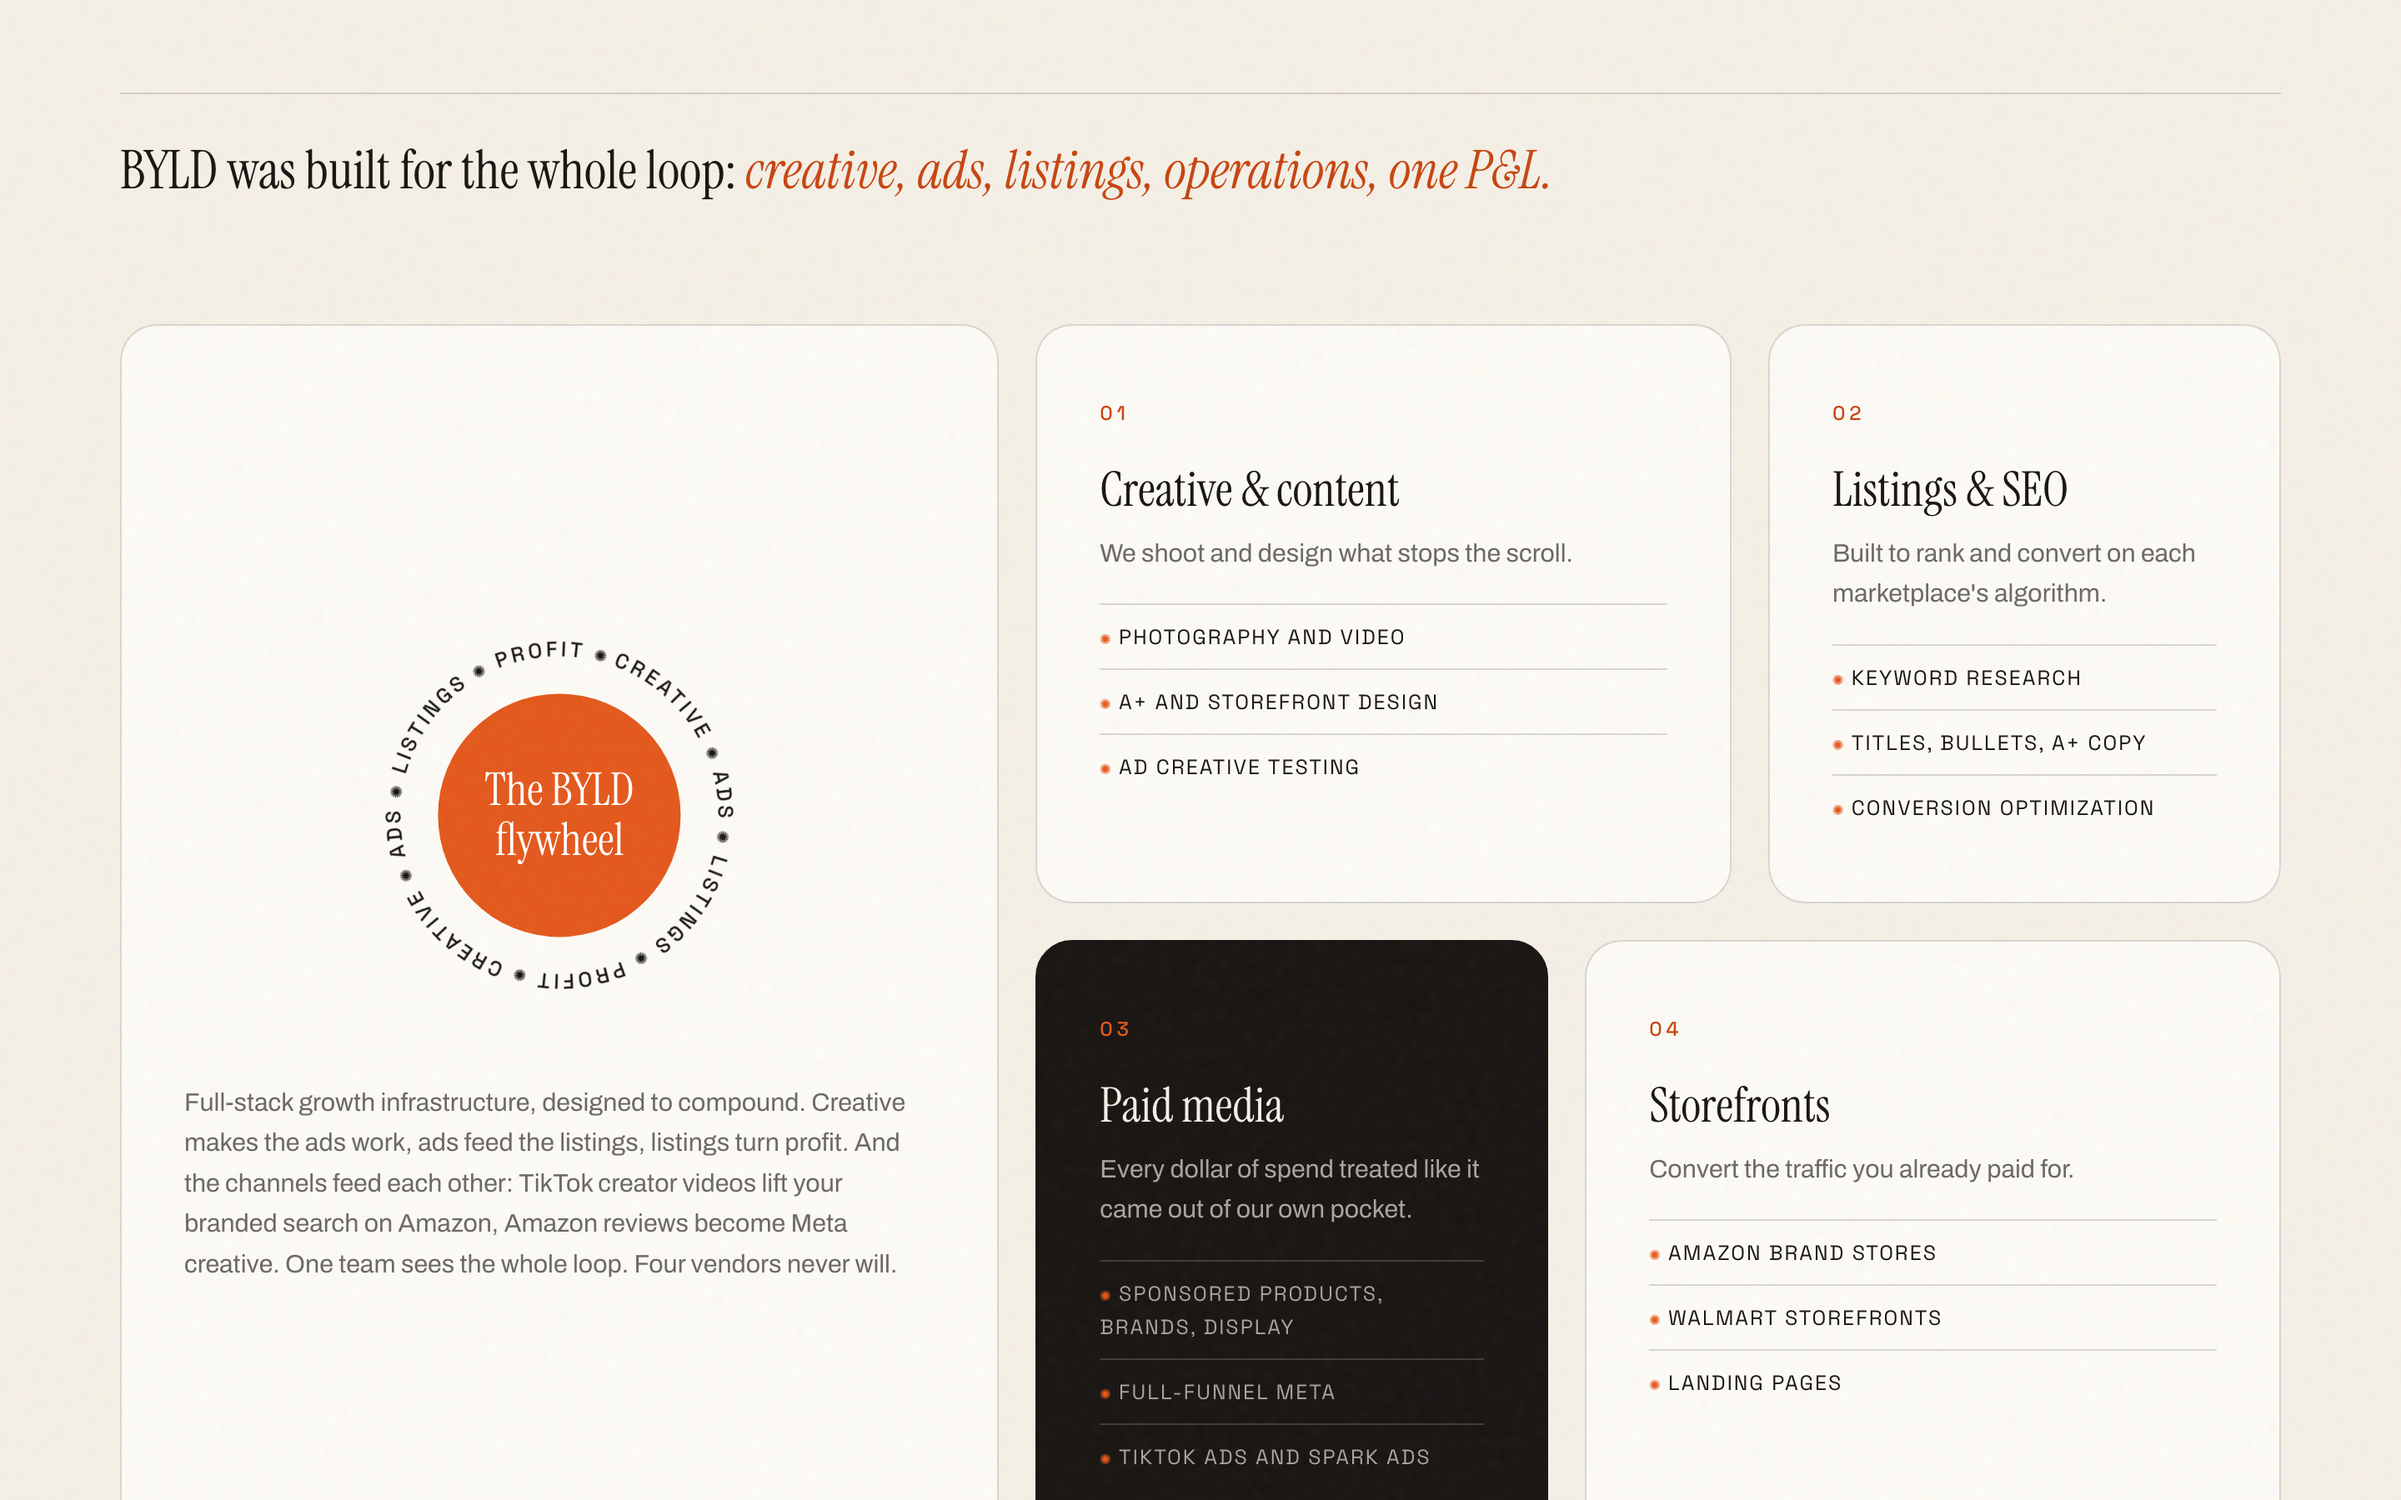
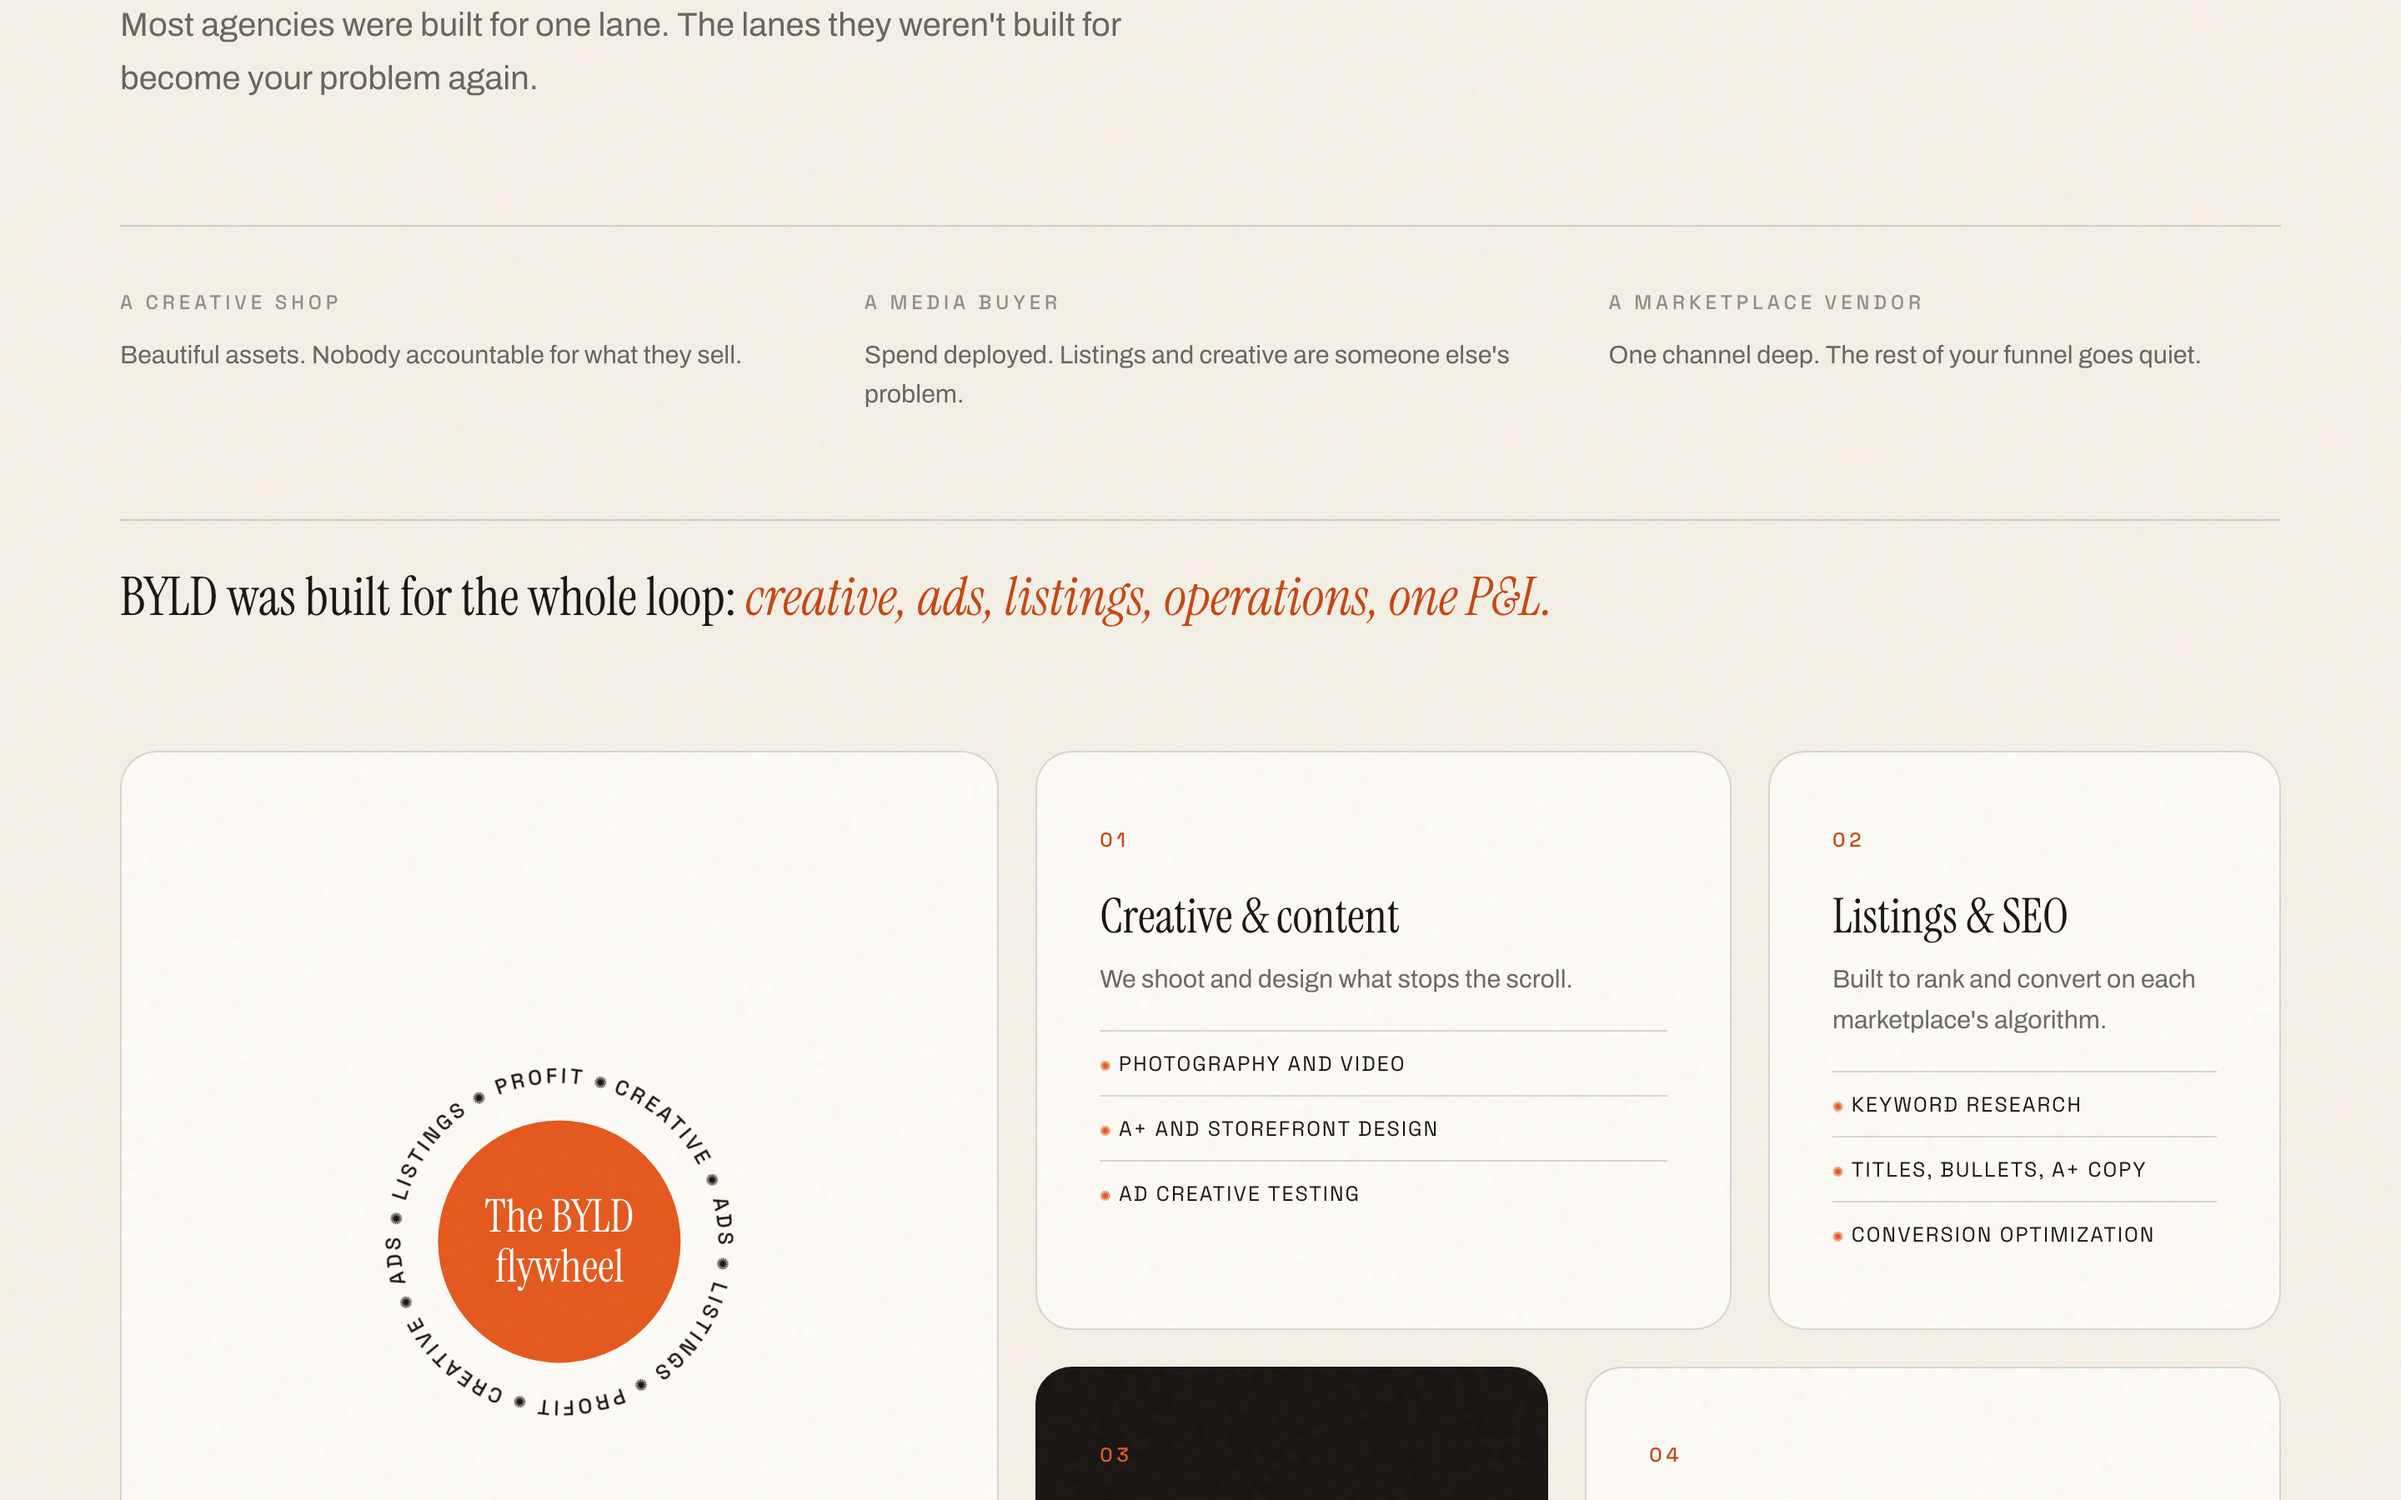
Fit the hero and results inside a laptop viewport
On a laptop the browser chrome leaves roughly 780px, not the full screen
height, so the hero's two buttons and the bottom of the results cards fell
below the fold. The vertical scale is now height-aware: hero padding, the
display headline and the section rhythm all shrink on short viewports, and
the result cards shrink with them.

Section top padding is pinned at 88px there so an eyebrow never lands
behind the 74px fixed header when you jump straight to a section.

Measured at 1280x720, 1440x790 and 1440x900: hero buttons and the results
strip plus its hint now sit above the fold at every size.

diff --git a/css/style.css b/css/style.css
@@ -20,7 +20,21 @@
   --gutter: clamp(20px, 5vw, 72px);
   --section: clamp(96px, 13vw, 180px);
   --section-top: clamp(60px, 7vw, 96px);
+  --rcard-stat: clamp(3.4rem, 5vw, 4.6rem);
   --ease: cubic-bezier(0.16, 1, 0.3, 1);
+}
+
+/* On a laptop the browser chrome leaves roughly 780px of viewport, so the
+   full-height rhythm pushes the end of a section past the fold. Tighten the
+   vertical scale there so each section lands whole when you jump to it. */
+@media (max-height: 880px) {
+  :root {
+    --section: clamp(64px, 9vw, 104px);
+    /* never below the 74px fixed header, or a section's eyebrow lands
+       behind it when you jump straight to that section */
+    --section-top: 88px;
+    --rcard-stat: clamp(2.9rem, 4vw, 3.6rem);
+  }
 }
 
 * { margin: 0; padding: 0; box-sizing: border-box; }
@@ -346,12 +360,14 @@ button { font: inherit; color: inherit; background: none; border: 0; cursor: poi
 
 /* ---------- hero ---------- */
 
+/* padding scales with viewport height so the buttons stay above the fold on
+   laptop screens, where the browser chrome eats 100px or more */
 .hero {
   position: relative;
   min-height: 100svh;
   display: flex;
   align-items: center;
-  padding: 110px var(--gutter) 70px;
+  padding: clamp(84px, 12vh, 110px) var(--gutter) clamp(44px, 7vh, 70px);
   overflow: hidden;
 }
 
@@ -370,11 +386,13 @@ button { font: inherit; color: inherit; background: none; border: 0; cursor: poi
 .hero__copy { min-width: 0; }
 .hero__proof { grid-column: 1 / -1; }
 
+/* the vh term keeps four lines of display serif from pushing the rest of
+   the hero off a short screen */
 .hero__title {
-  margin-top: 24px;
+  margin-top: clamp(14px, 2vh, 24px);
   font-family: var(--serif);
   font-weight: 400;
-  font-size: clamp(2.7rem, 6.9vw, 6.4rem);
+  font-size: clamp(2.4rem, min(6.9vw, 11.2vh), 6.4rem);
   line-height: 0.99;
   letter-spacing: -0.015em;
 }
@@ -386,12 +404,12 @@ button { font: inherit; color: inherit; background: none; border: 0; cursor: poi
   align-items: flex-end;
   justify-content: space-between;
   gap: 40px;
-  margin-top: 36px;
+  margin-top: clamp(20px, 3.5vh, 36px);
   flex-wrap: wrap;
 }
 
 .hero__sub {
-  max-width: 480px;
+  max-width: 560px;
   font-size: clamp(1.02rem, 1.35vw, 1.2rem);
   color: var(--ink-soft);
 }
@@ -1052,7 +1070,7 @@ button { font: inherit; color: inherit; background: none; border: 0; cursor: poi
   justify-content: space-between;
   gap: 40px;
   padding: 0 var(--gutter);
-  margin-bottom: clamp(30px, 3.5vw, 44px);
+  margin-bottom: clamp(22px, 3vh, 44px);
   flex-wrap: wrap;
 }
 
@@ -1081,10 +1099,10 @@ button { font: inherit; color: inherit; background: none; border: 0; cursor: poi
   text-decoration: none;
   color: var(--ink);
   width: min(340px, 82vw);
-  min-height: 280px;
+  min-height: clamp(230px, 30vh, 280px);
   display: flex;
   flex-direction: column;
-  padding: 28px 30px;
+  padding: clamp(18px, 2.6vh, 28px) 30px;
   background: #FDFBF6;
   border: 1px solid var(--line);
   border-radius: 22px;
@@ -1193,7 +1211,7 @@ button { font: inherit; color: inherit; background: none; border: 0; cursor: poi
 .rcard__stat {
   display: block;
   font-family: var(--serif);
-  font-size: clamp(3.4rem, 5vw, 4.6rem);
+  font-size: var(--rcard-stat);
   line-height: 1;
   letter-spacing: -0.02em;
 }

diff --git a/squarespace/code-injection-header.html b/squarespace/code-injection-header.html
@@ -27,7 +27,21 @@
   --gutter: clamp(20px, 5vw, 72px);
   --section: clamp(96px, 13vw, 180px);
   --section-top: clamp(60px, 7vw, 96px);
+  --rcard-stat: clamp(3.4rem, 5vw, 4.6rem);
   --ease: cubic-bezier(0.16, 1, 0.3, 1);
+}
+
+/* On a laptop the browser chrome leaves roughly 780px of viewport, so the
+   full-height rhythm pushes the end of a section past the fold. Tighten the
+   vertical scale there so each section lands whole when you jump to it. */
+@media (max-height: 880px) {
+  :root {
+    --section: clamp(64px, 9vw, 104px);
+    /* never below the 74px fixed header, or a section's eyebrow lands
+       behind it when you jump straight to that section */
+    --section-top: 88px;
+    --rcard-stat: clamp(2.9rem, 4vw, 3.6rem);
+  }
 }
 
 * { margin: 0; padding: 0; box-sizing: border-box; }
@@ -353,12 +367,14 @@ button { font: inherit; color: inherit; background: none; border: 0; cursor: poi
 
 /* ---------- hero ---------- */
 
+/* padding scales with viewport height so the buttons stay above the fold on
+   laptop screens, where the browser chrome eats 100px or more */
 .hero {
   position: relative;
   min-height: 100svh;
   display: flex;
   align-items: center;
-  padding: 110px var(--gutter) 70px;
+  padding: clamp(84px, 12vh, 110px) var(--gutter) clamp(44px, 7vh, 70px);
   overflow: hidden;
 }
 
@@ -377,11 +393,13 @@ button { font: inherit; color: inherit; background: none; border: 0; cursor: poi
 .hero__copy { min-width: 0; }
 .hero__proof { grid-column: 1 / -1; }
 
+/* the vh term keeps four lines of display serif from pushing the rest of
+   the hero off a short screen */
 .hero__title {
-  margin-top: 24px;
+  margin-top: clamp(14px, 2vh, 24px);
   font-family: var(--serif);
   font-weight: 400;
-  font-size: clamp(2.7rem, 6.9vw, 6.4rem);
+  font-size: clamp(2.4rem, min(6.9vw, 11.2vh), 6.4rem);
   line-height: 0.99;
   letter-spacing: -0.015em;
 }
@@ -393,12 +411,12 @@ button { font: inherit; color: inherit; background: none; border: 0; cursor: poi
   align-items: flex-end;
   justify-content: space-between;
   gap: 40px;
-  margin-top: 36px;
+  margin-top: clamp(20px, 3.5vh, 36px);
   flex-wrap: wrap;
 }
 
 .hero__sub {
-  max-width: 480px;
+  max-width: 560px;
   font-size: clamp(1.02rem, 1.35vw, 1.2rem);
   color: var(--ink-soft);
 }
@@ -1059,7 +1077,7 @@ button { font: inherit; color: inherit; background: none; border: 0; cursor: poi
   justify-content: space-between;
   gap: 40px;
   padding: 0 var(--gutter);
-  margin-bottom: clamp(30px, 3.5vw, 44px);
+  margin-bottom: clamp(22px, 3vh, 44px);
   flex-wrap: wrap;
 }
 
@@ -1088,10 +1106,10 @@ button { font: inherit; color: inherit; background: none; border: 0; cursor: poi
   text-decoration: none;
   color: var(--ink);
   width: min(340px, 82vw);
-  min-height: 280px;
+  min-height: clamp(230px, 30vh, 280px);
   display: flex;
   flex-direction: column;
-  padding: 28px 30px;
+  padding: clamp(18px, 2.6vh, 28px) 30px;
   background: #FDFBF6;
   border: 1px solid var(--line);
   border-radius: 22px;
@@ -1200,7 +1218,7 @@ button { font: inherit; color: inherit; background: none; border: 0; cursor: poi
 .rcard__stat {
   display: block;
   font-family: var(--serif);
-  font-size: clamp(3.4rem, 5vw, 4.6rem);
+  font-size: var(--rcard-stat);
   line-height: 1;
   letter-spacing: -0.02em;
 }
